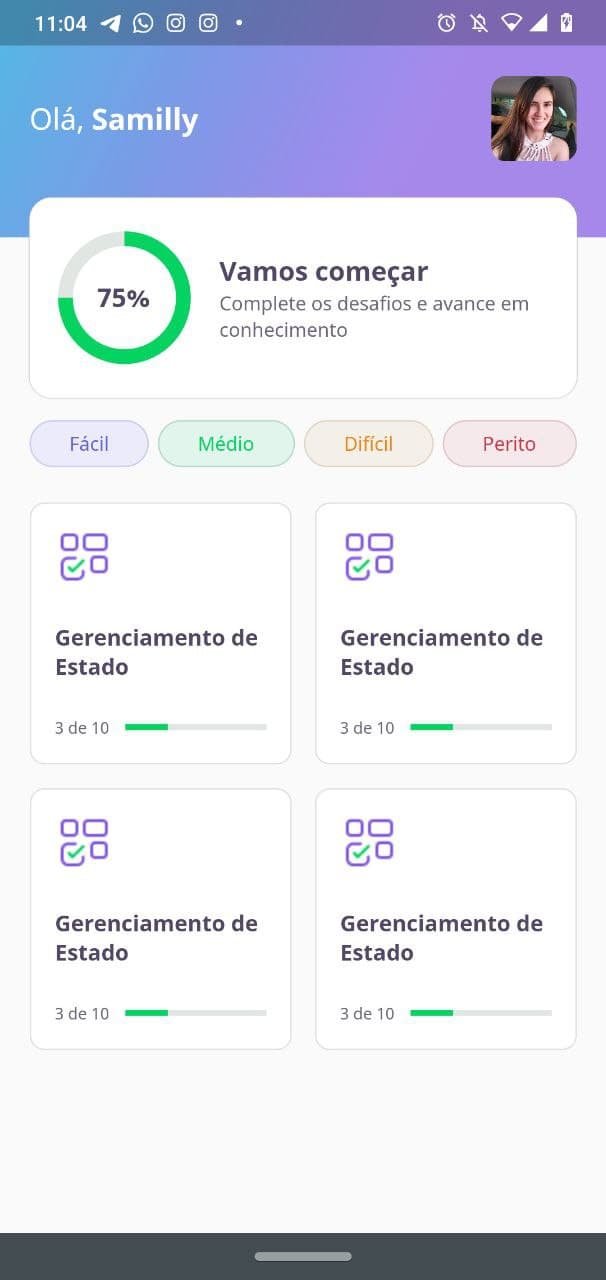
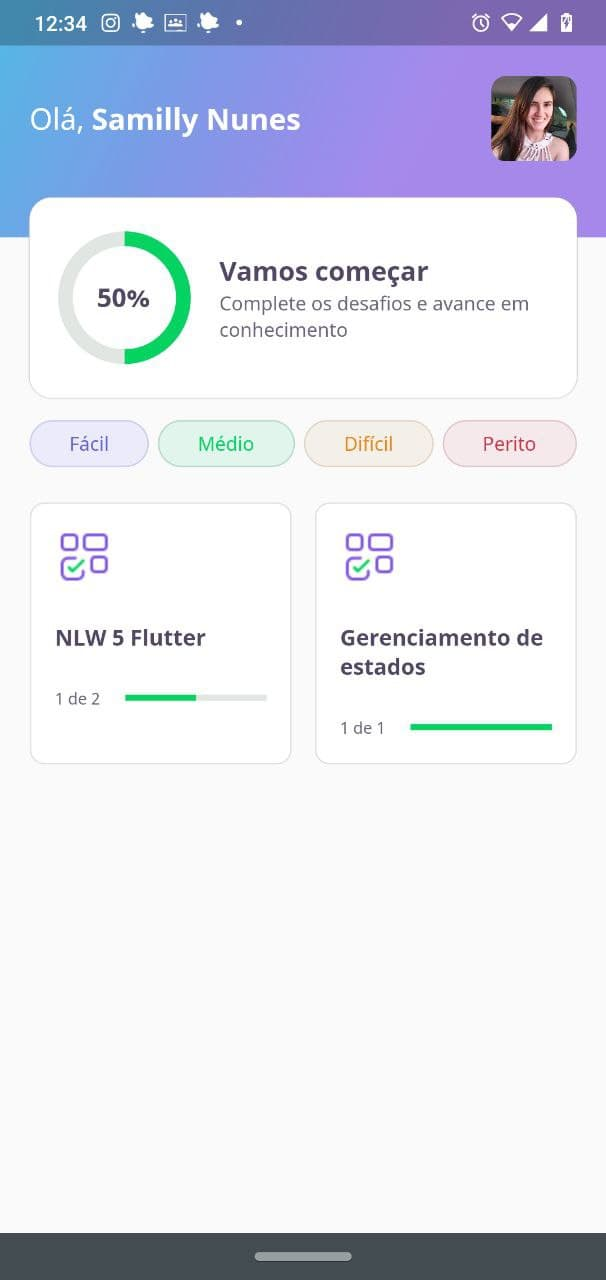
Working with repositories

diff --git a/lib/home/home_controller.dart b/lib/home/home_controller.dart
@@ -1,4 +1,5 @@
 import 'package:dev_quiz/core/app_images.dart';
+import 'package:dev_quiz/home/home_repository.dart';
 import 'package:dev_quiz/home/home_state.dart';
 import 'package:dev_quiz/shared/models/answer_model.dart';
 import 'package:dev_quiz/shared/models/question_model.dart';
@@ -16,53 +17,20 @@ class HomeController {
   UserModel? user;
   List<QuizModel>? quizzes;
 
+  final repository = HomeRepository();
+
   void getUser() async {
     state = HomeState.loading;
-    await Future.delayed(Duration(seconds: 2));
 
-    user = UserModel(
-      name: "Samilly",
-      photoUrl: 'https://avatars.githubusercontent.com/u/37520136?v=4',
-    );
+    user = await repository.getUser();
 
     state = HomeState.success;
   }
 
   void getQuizzes() async {
     state = HomeState.loading;
-    await Future.delayed(Duration(seconds: 2));
 
-    quizzes = [
-      QuizModel(
-        title: "NLW 5 Flutter",
-        image: AppImages.blocks,
-        level: Level.facil,
-        questionsAnswered: 1,
-        questions: [
-          QuestionModel(
-            title: "Está curtindo o Flutter?",
-            answers: [
-              AnswerModel(title: "Estou curtindo"),
-              AnswerModel(title: "Não muito"),
-              AnswerModel(
-                title: "Show de bola",
-                isRight: true,
-              ),
-              AnswerModel(title: "Muito bom!"),
-            ],
-          ),
-          QuestionModel(
-            title: "Como vai o curso?",
-            answers: [
-              AnswerModel(title: "Estou curtindo"),
-              AnswerModel(title: "Não muito", isRight: true),
-              AnswerModel(title: "Show de bola"),
-              AnswerModel(title: "Muito bom!"),
-            ],
-          ),
-        ],
-      ),
-    ];
+    quizzes = await repository.getQuizzes();
     state = HomeState.success;
   }
 }

diff --git a/lib/shared/models/quiz_model.dart b/lib/shared/models/quiz_model.dart
@@ -1,6 +1,27 @@
+import 'dart:convert';
+
 import 'package:dev_quiz/shared/models/question_model.dart';
 
 enum Level { facil, medio, dificil, perito }
+
+// essa extensao vai ser adicionada nas possibilidades da String
+extension LevelStringExt on String {
+  Level get levelParseFromString => {
+        "facil": Level.facil,
+        "medio": Level.medio,
+        "dificil": Level.dificil,
+        "perito": Level.perito,
+      }[this]!; // o this representa a string que se esta passando
+}
+
+extension LevelExt on Level {
+  String get levelParseFromLevel => {
+        Level.facil: "facil",
+        Level.medio: "medio",
+        Level.dificil: "dificil",
+        Level.perito: "perito",
+      }[this]!; // o this representa a string que se esta passando
+}
 
 class QuizModel {
   final String title;
@@ -16,4 +37,30 @@ class QuizModel {
     required this.image,
     required this.level,
   });
+
+  Map<String, dynamic> toMap() {
+    return {
+      'title': title,
+      'questions': questions.map((x) => x.toMap()).toList(),
+      'questionsAnswered': questionsAnswered,
+      'image': image,
+      'level': level.levelParseFromLevel,
+    };
+  }
+
+  factory QuizModel.fromMap(Map<String, dynamic> map) {
+    return QuizModel(
+      title: map['title'],
+      questions: List<QuestionModel>.from(
+          map['questions']?.map((x) => QuestionModel.fromMap(x))),
+      questionsAnswered: map['questionsAnswered'],
+      image: map['image'],
+      level: map['level'].toString().levelParseFromString,
+    );
+  }
+
+  String toJson() => json.encode(toMap());
+
+  factory QuizModel.fromJson(String source) =>
+      QuizModel.fromMap(json.decode(source));
 }

diff --git a/lib/home/widgets/chart/chart_widget.dart b/lib/home/widgets/chart/chart_widget.dart
@@ -1,8 +1,16 @@
-import 'package:dev_quiz/core/app_colors.dart';
-import 'package:dev_quiz/core/core.dart';
 import 'package:flutter/material.dart';
 
+import 'package:dev_quiz/core/app_colors.dart';
+import 'package:dev_quiz/core/core.dart';
+
 class ChartWidget extends StatelessWidget {
+  final double percent;
+
+  const ChartWidget({
+    Key? key,
+    required this.percent,
+  }) : super(key: key);
+
   @override
   Widget build(BuildContext context) {
     return Container(
@@ -16,7 +24,7 @@ class ChartWidget extends StatelessWidget {
               width: 80,
               child: CircularProgressIndicator(
                 strokeWidth: 10,
-                value: 0.75,
+                value: this.percent,
                 backgroundColor: AppColors.chartSecondary,
                 valueColor:
                     AlwaysStoppedAnimation<Color>(AppColors.chartPrimary),
@@ -25,7 +33,7 @@ class ChartWidget extends StatelessWidget {
           ),
           Center(
             child: Text(
-              "75%",
+              "${(this.percent * 100).toInt()}%",
               style: AppTextStyles.heading,
             ),
           ),

diff --git a/lib/home/home_repository.dart b/lib/home/home_repository.dart
@@ -1,0 +1,25 @@
+import 'dart:convert';
+
+import 'package:dev_quiz/shared/models/quiz_model.dart';
+import 'package:dev_quiz/shared/models/user_model.dart';
+import 'package:flutter/services.dart';
+
+class HomeRepository {
+  Future<UserModel> getUser() async {
+    // o rootBundle vai acessar os arquivos
+    final response = await rootBundle.loadString("database/user.json");
+    // convertendo de json para usermodel
+    final user = UserModel.fromJson(response);
+    return user;
+  }
+
+  Future<List<QuizModel>> getQuizzes() async {
+    //acessando os arquivos
+    final response = await rootBundle.loadString("database/quizzes.json");
+    //convertendo o json para uma lista, ja que eh uma
+    final list = json.decode(response) as List;
+    //convertendo de mapa para quiz model
+    final quizzes = list.map((quizMap) => QuizModel.fromMap(quizMap)).toList();
+    return quizzes;
+  }
+}

diff --git a/lib/home/widgets/score_card/score_card_widget.dart b/lib/home/widgets/score_card/score_card_widget.dart
@@ -1,8 +1,16 @@
-import 'package:dev_quiz/core/core.dart';
-import 'package:dev_quiz/home/widgets/chart/chart_widget.dart';
 import 'package:flutter/material.dart';
 
+import 'package:dev_quiz/core/core.dart';
+import 'package:dev_quiz/home/widgets/chart/chart_widget.dart';
+
 class ScoreCardWidget extends StatelessWidget {
+  final double scorePercentage;
+
+  const ScoreCardWidget({
+    Key? key,
+    required this.scorePercentage,
+  }) : super(key: key);
+
   @override
   Widget build(BuildContext context) {
     return Padding(
@@ -28,7 +36,9 @@ class ScoreCardWidget extends StatelessWidget {
             children: [
               Expanded(
                 flex: 1,
-                child: ChartWidget(),
+                child: ChartWidget(
+                  percent: scorePercentage,
+                ),
               ),
               Expanded(
                 flex: 3,

diff --git a/lib/shared/models/question_model.dart b/lib/shared/models/question_model.dart
@@ -1,3 +1,5 @@
+import 'dart:convert';
+
 import 'package:dev_quiz/shared/models/answer_model.dart';
 
 class QuestionModel {
@@ -10,4 +12,22 @@ class QuestionModel {
   }) : assert(
           answers.length == 4,
         ); //usando o assert para garantir a integridade do layout, ja que ele espera 4 respostas
+
+  Map<String, dynamic> toMap() {
+    return {
+      'title': title,
+      'answers': answers.map((x) => x.toMap()).toList(),
+    };
+  }
+
+  factory QuestionModel.fromMap(Map<String, dynamic> map) {
+    return QuestionModel(
+      title: map['title'],
+      answers: List<AnswerModel>.from(map['answers'].map((x) => AnswerModel.fromMap(x))),
+    );
+  }
+
+  String toJson() => json.encode(toMap());
+
+  factory QuestionModel.fromJson(String source) => QuestionModel.fromMap(json.decode(source));
 }

diff --git a/lib/shared/models/user_model.dart b/lib/shared/models/user_model.dart
@@ -1,3 +1,5 @@
+import 'dart:convert';
+
 class UserModel {
   final String name;
   final String photoUrl;
@@ -8,4 +10,24 @@ class UserModel {
     required this.photoUrl,
     this.score = 0,
   });
+
+  Map<String, dynamic> toMap() {
+    return {
+      'name': name,
+      'photoUrl': photoUrl,
+      'score': score,
+    };
+  }
+
+  factory UserModel.fromMap(Map<String, dynamic> map) {
+    return UserModel(
+      name: map['name'],
+      photoUrl: map['photoUrl'],
+      score: map['score'],
+    );
+  }
+
+  String toJson() => json.encode(toMap());
+
+  factory UserModel.fromJson(String source) => UserModel.fromMap(json.decode(source));
 }

diff --git a/lib/shared/models/answer_model.dart b/lib/shared/models/answer_model.dart
@@ -1,3 +1,5 @@
+import 'dart:convert';
+
 class AnswerModel {
   final String title;
   final bool isRight;
@@ -6,4 +8,23 @@ class AnswerModel {
     required this.title,
     this.isRight = false,
   });
+
+  Map<String, dynamic> toMap() {
+    return {
+      'title': title,
+      'isRight': isRight,
+    };
+  }
+
+  factory AnswerModel.fromMap(Map<String, dynamic> map) {
+    return AnswerModel(
+      title: map['title'],
+      isRight: map['isRight'] ?? false,
+    );
+  }
+
+  String toJson() => json.encode(toMap());
+
+  factory AnswerModel.fromJson(String source) =>
+      AnswerModel.fromMap(json.decode(source));
 }

diff --git a/lib/home/widgets/appbar/app_bar_widget.dart b/lib/home/widgets/appbar/app_bar_widget.dart
@@ -53,7 +53,9 @@ class AppBarWidget extends PreferredSize {
                 ),
                 Align(
                   alignment: Alignment(0.0, 1.0),
-                  child: ScoreCardWidget(),
+                  child: ScoreCardWidget(
+                    scorePercentage: (user.score / 100).toDouble(),
+                  ),
                 ),
               ],
             ),
